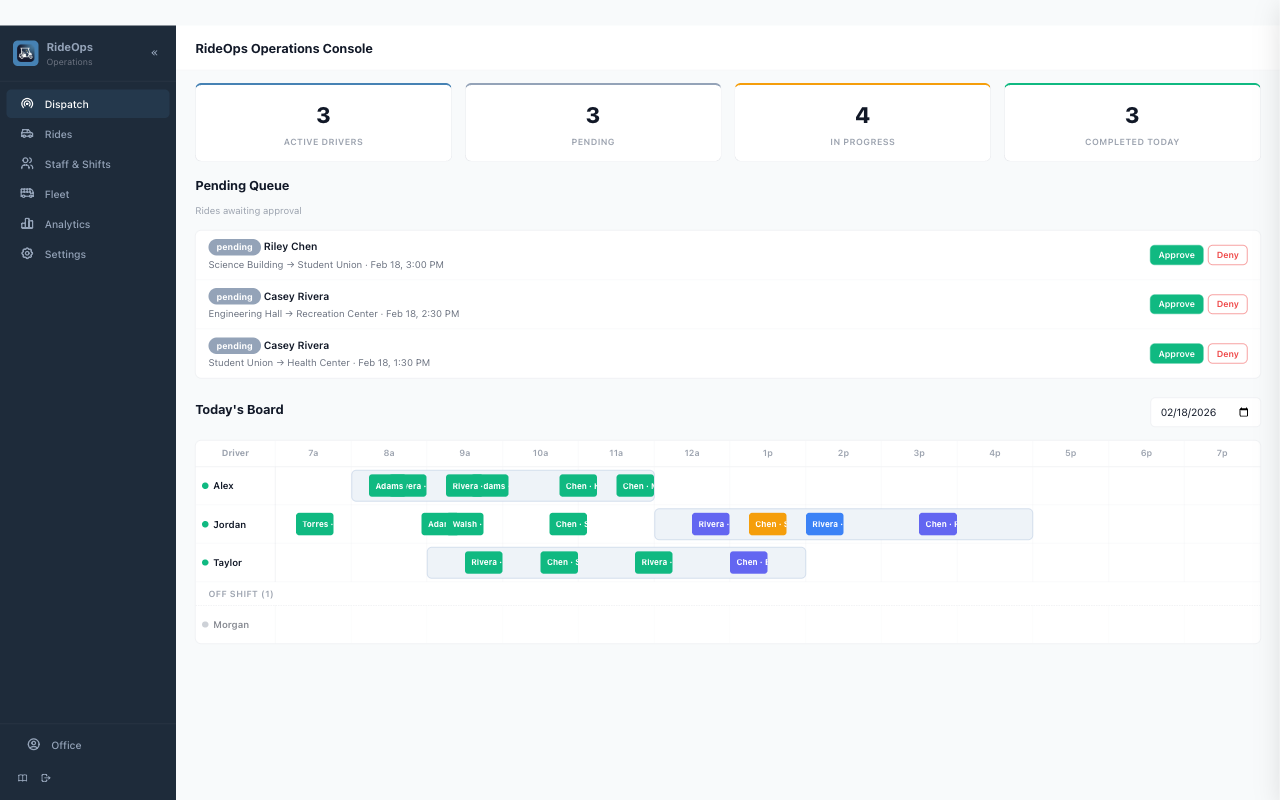
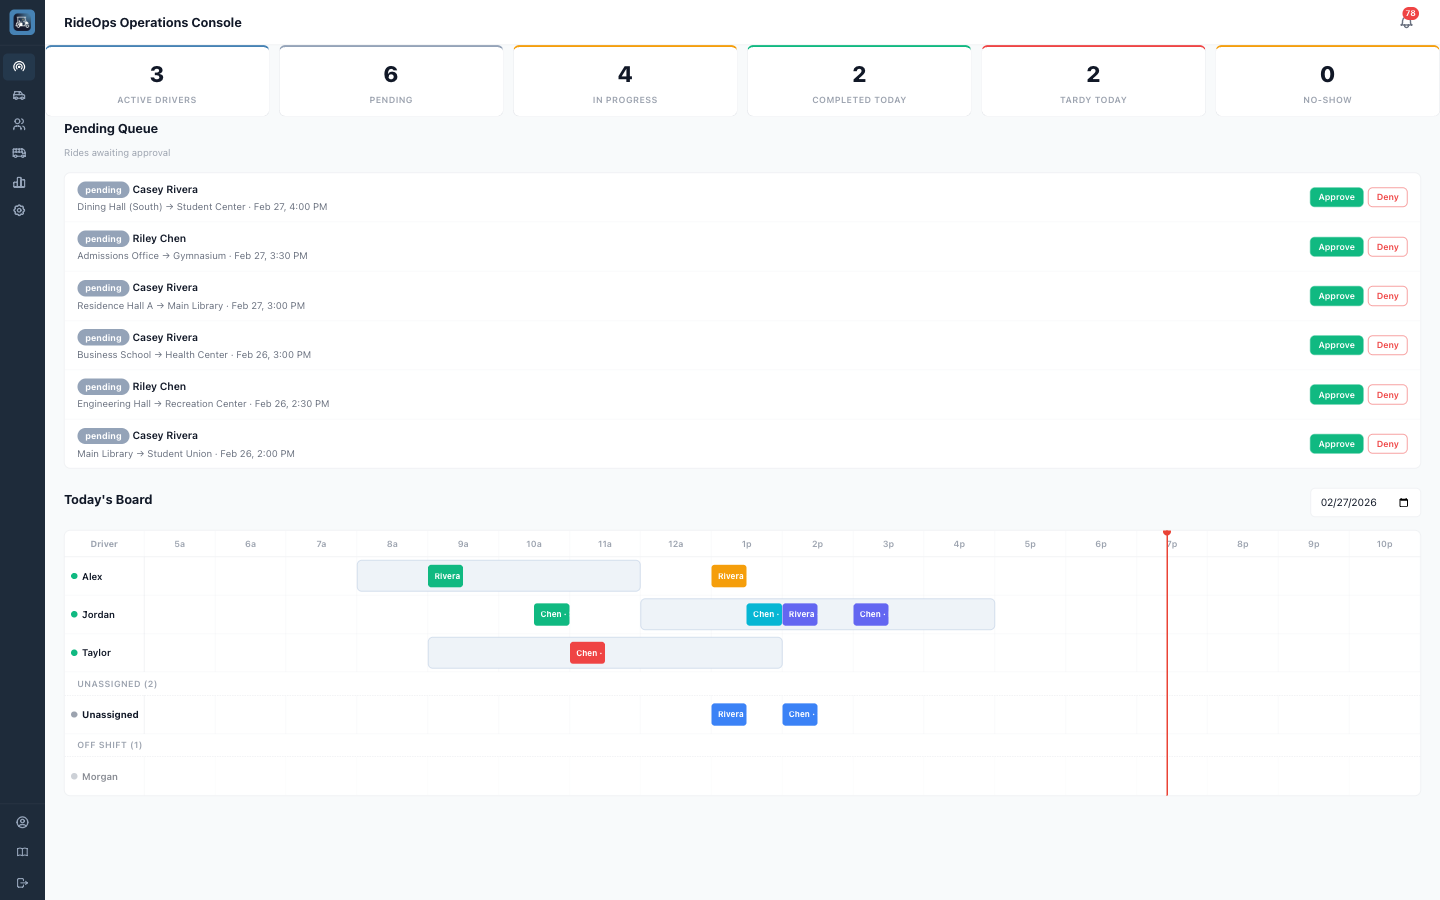
feat: update demo screenshots, fix gallery layout for 5 items, fix homepage visibility
- Replace all 18 demo screenshots with fresh captures from default RideOps env
- Add desktop-business-rules.png and driver-clock-out.png (new screenshots)
- Remove unused images: desktop-dispatch-board, desktop-rides-calendar,
  desktop-wrapped, rider-grace-timer, driver-my-rides
- Update DemoGallery.tsx captions and screenshot lists for all 3 tabs
- Change MobileGallery from CSS grid to flexbox for centered last-row layout
- Add 1s fallback timer to AnimateOnScroll so content shows even if
  IntersectionObserver never fires

diff --git a/components/DemoGallery.tsx b/components/DemoGallery.tsx
@@ -20,16 +20,14 @@ const tabs = [
     label: "Office Dashboard",
     icon: Monitor,
     layout: "desktop" as const,
-    hero: { src: "/demo/desktop-dispatch-hero.png", caption: "Command center — every ride, every driver, one screen" },
+    hero: { src: "/demo/desktop-dispatch-hero.png", caption: "Live dispatch — KPIs, pending queue, and driver time grid" },
     screenshots: [
-      { src: "/demo/desktop-dispatch-board.png", caption: "Approve or deny ride requests in real time" },
-      { src: "/demo/desktop-rides-active.png", caption: "Track every ride from request to completion" },
-      { src: "/demo/desktop-rides-calendar.png", caption: "Weekly calendar view of all scheduled rides" },
-      { src: "/demo/desktop-staff-shifts.png", caption: "Staff scheduling with shift coverage at a glance" },
-      { src: "/demo/desktop-analytics.png", caption: "Built-in analytics — no external tools needed" },
-      { src: "/demo/desktop-wrapped.png", caption: "Semester recap your team will want to share" },
-      { src: "/demo/desktop-fleet.png", caption: "Fleet tracking with maintenance alerts" },
-      { src: "/demo/desktop-user-management.png", caption: "Manage riders, drivers, and staff from one place" },
+      { src: "/demo/desktop-rides-active.png", caption: "Full ride log with status filters and one-click actions" },
+      { src: "/demo/desktop-staff-shifts.png", caption: "Weekly shift calendar with drag-and-drop scheduling" },
+      { src: "/demo/desktop-analytics.png", caption: "Operational analytics — rides, completion rates, peak hours" },
+      { src: "/demo/desktop-fleet.png", caption: "Fleet management with maintenance tracking" },
+      { src: "/demo/desktop-user-management.png", caption: "User management for riders, drivers, and staff" },
+      { src: "/demo/desktop-business-rules.png", caption: "Configurable business rules per university" },
     ],
   },
   {
@@ -38,12 +36,12 @@ const tabs = [
     icon: Smartphone,
     layout: "mobile" as const,
     screenshots: [
-      { src: "/demo/driver-clock-in.png", caption: "Clock in when you're ready to drive" },
+      { src: "/demo/driver-clock-out.png", caption: "Clock out state — ready to start your shift" },
+      { src: "/demo/driver-clock-in.png", caption: "Clock in and see available rides to claim" },
       { src: "/demo/driver-ride-scheduled.png", caption: "One tap to start your next ride" },
       { src: "/demo/driver-ride-on-way.png", caption: "Live updates as you drive to the rider" },
       { src: "/demo/driver-grace-timer.png", caption: "5-minute grace timer protects drivers" },
-      { src: "/demo/driver-my-rides.png", caption: "Today's rides at a glance" },
-      { src: "/demo/driver-account.png", caption: "Quick profile and password management" },
+      { src: "/demo/driver-account.png", caption: "Profile, avatar, and password management" },
     ],
   },
   {
@@ -52,11 +50,10 @@ const tabs = [
     icon: User,
     layout: "mobile" as const,
     screenshots: [
-      { src: "/demo/rider-book-step1.png", caption: "Pick your route from campus locations" },
+      { src: "/demo/rider-book-step1.png", caption: "Pick your pickup and drop-off locations" },
       { src: "/demo/rider-book-step2.png", caption: "Choose your date and time" },
       { src: "/demo/rider-book-step3.png", caption: "Review and confirm in one tap" },
-      { src: "/demo/rider-my-rides.png", caption: "Track all your active rides" },
-      { src: "/demo/rider-grace-timer.png", caption: "Know exactly how long your driver waits" },
+      { src: "/demo/rider-my-rides.png", caption: "Track all your active rides in real time" },
       { src: "/demo/rider-history.png", caption: "Full ride history with trip details" },
     ],
   },
@@ -267,9 +264,9 @@ function MobileGallery({
   onOpen: (idx: number) => void;
 }) {
   return (
-    <div className="grid grid-cols-2 justify-items-center gap-6 sm:grid-cols-3">
+    <div className="flex flex-wrap justify-center gap-6">
       {screenshots.map((shot, i) => (
-        <div key={shot.src}>
+        <div key={shot.src} className="w-[calc(50%-12px)] sm:w-[calc(33.333%-16px)]">
           <PhoneMockup className="cursor-pointer transition-transform hover:scale-[1.02]">
             <div onClick={() => onOpen(i)}>
               <Image

diff --git a/components/AnimateOnScroll.tsx b/components/AnimateOnScroll.tsx
@@ -1,7 +1,7 @@
 "use client";
 
-import { motion } from "framer-motion";
-import { ReactNode } from "react";
+import { motion, useInView } from "framer-motion";
+import { ReactNode, useRef, useState, useEffect } from "react";
 
 interface AnimateOnScrollProps {
   children: ReactNode;
@@ -24,13 +24,24 @@ export default function AnimateOnScroll({
   className,
 }: AnimateOnScrollProps) {
   const offset = directionOffsets[direction];
+  const ref = useRef<HTMLDivElement>(null);
+  const isInView = useInView(ref, { once: true, margin: "-80px" });
+  const [fallback, setFallback] = useState(false);
+
+  // Fail-safe: if IntersectionObserver never fires, show content after 1s
+  useEffect(() => {
+    const timer = setTimeout(() => setFallback(true), 1000);
+    return () => clearTimeout(timer);
+  }, []);
+
+  const show = isInView || fallback;
 
   return (
     <motion.div
+      ref={ref}
       initial={{ opacity: 0, ...offset }}
-      whileInView={{ opacity: 1, x: 0, y: 0 }}
-      viewport={{ once: true, margin: "-80px" }}
-      transition={{ duration: 0.6, delay, ease: "easeOut" }}
+      animate={show ? { opacity: 1, x: 0, y: 0 } : { opacity: 0, ...offset }}
+      transition={{ duration: 0.6, delay: show && !fallback ? delay : 0, ease: "easeOut" }}
       className={className}
     >
       {children}
